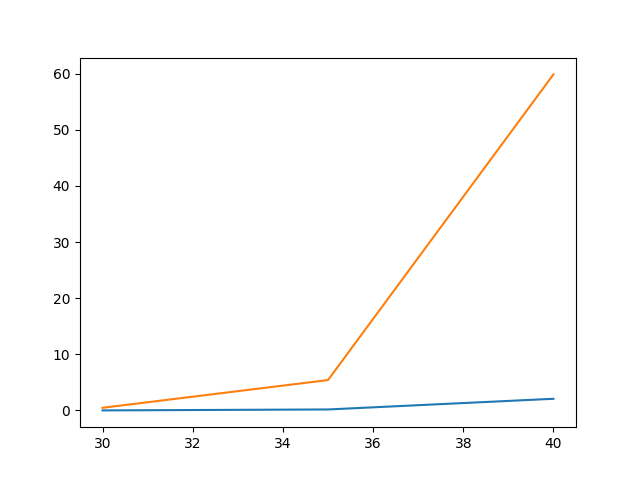
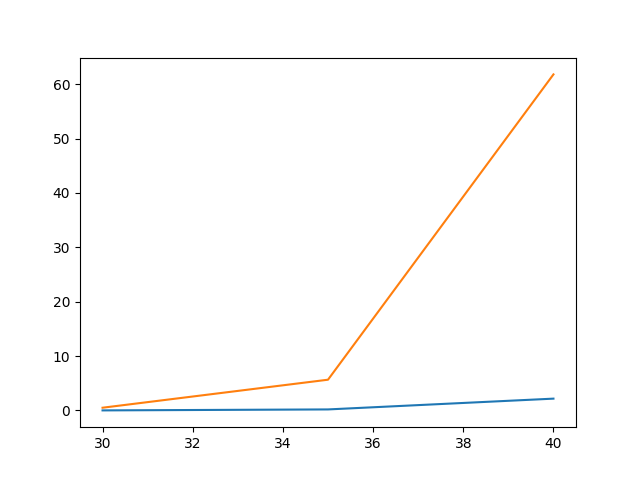
Totally Done!

diff --git a/MA4_2.py b/MA4_2.py
@@ -1,5 +1,11 @@
-#!/usr/bin/env python3
+#!/usr/bin/env python3:
+""" MA4_2.py
 
+Student: Raphaël Ashruf
+Mail: raphael-damian.ashruf.3037@student.uu.se
+Reviewed by: Niklas Wik
+Date reviewed: 18-10-2021 (18 Oktober 2021)
+""" 
 import time
 from integer import Integer
 import matplotlib.pyplot as mp
@@ -18,17 +24,10 @@ def main():
 	n = 5
 	print(pfib(n)) #so python function works!
 	#now we shall time it:
-	n = 35
-	time_py = time.perf_counter()
-	x = pfib(n)
-	time_py2 = time.perf_counter()
-	print("time python: ",time_py2-time_py)
-	
-	time_c1 = time.perf_counter()
+	n = 47
 	f = Integer(n)
 	x = f.fib()
-	time_c2 = time.perf_counter()
-	print("time c++: ", time_c2-time_c1)
+	print("fib(47) = ", x)
 	
 	n_list = [30,35,40]
 	py_times = []

diff --git a/integer.cpp b/integer.cpp
@@ -1,3 +1,9 @@
+
+//integer.cpp
+//Student: Raphaël Ashruf
+//Mail: raphael-damian.ashruf.3037@student.uu.se
+//Reviewed by: Niklas Wik
+//Date reviewed: 18-10-2021 (18 Oktober 2021)
 #include <cstdlib>
 // Integer class 
 
